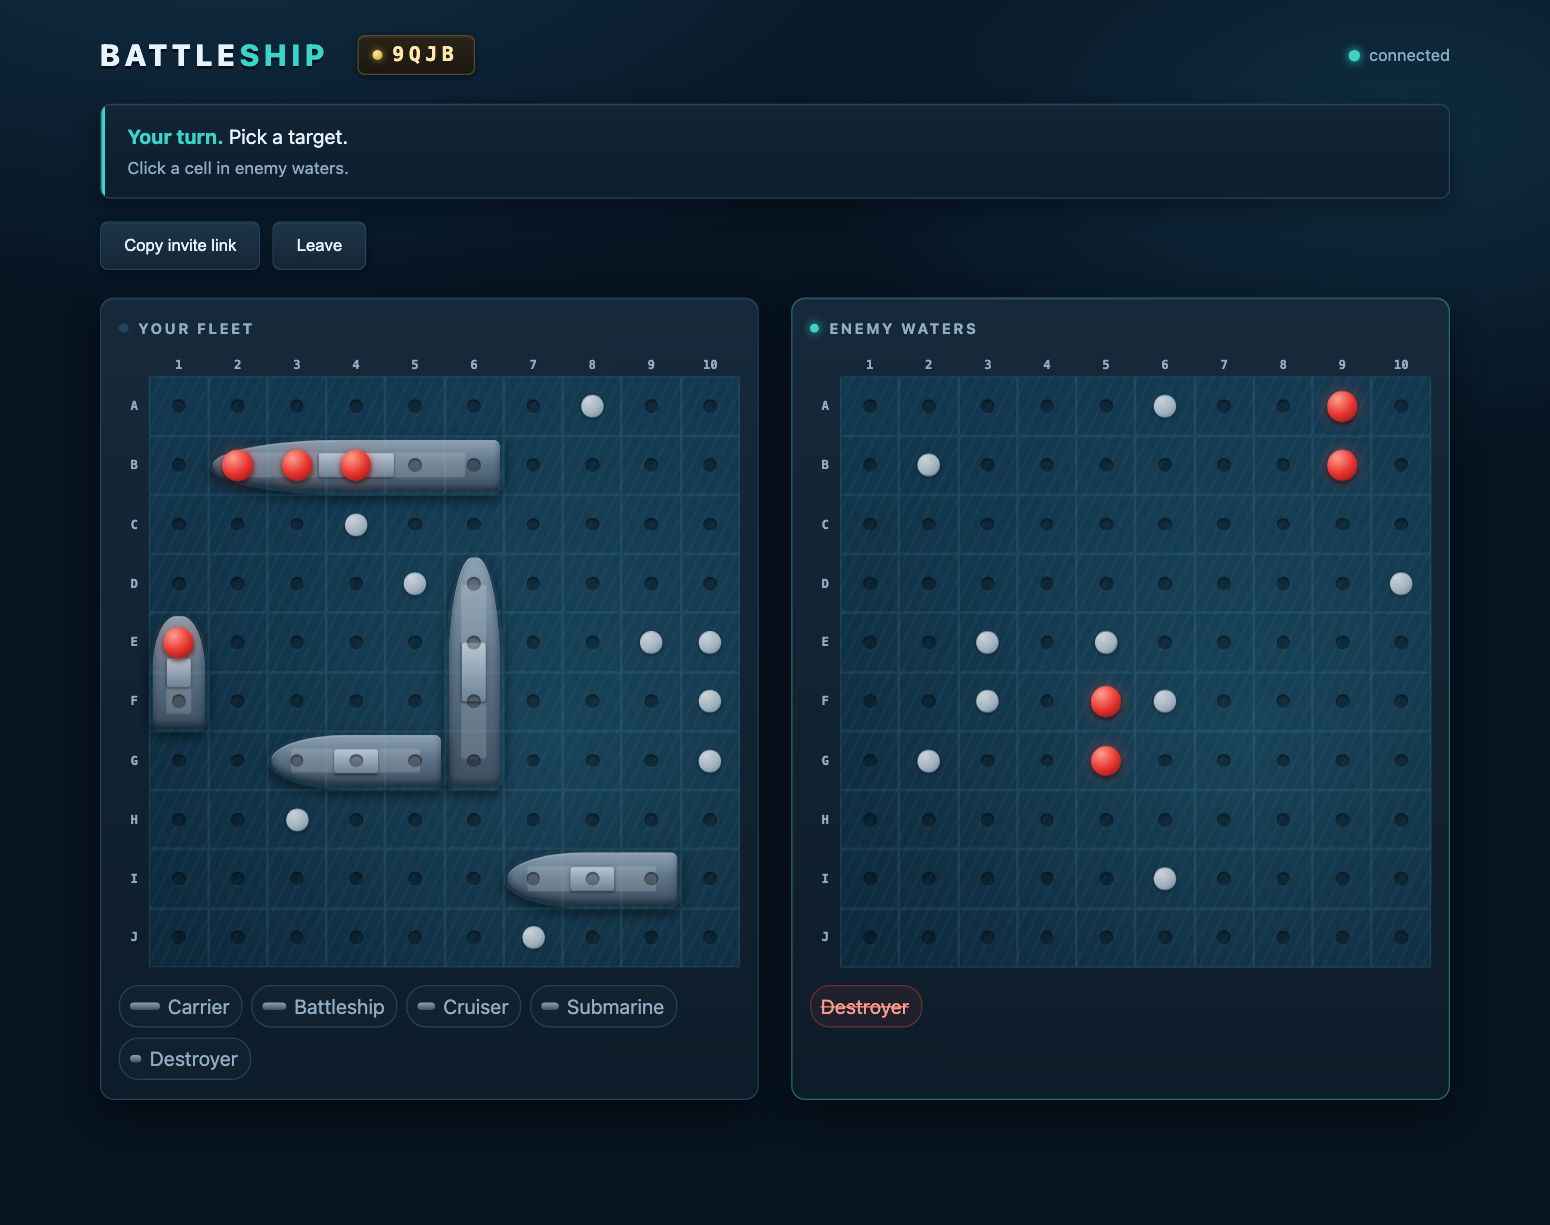
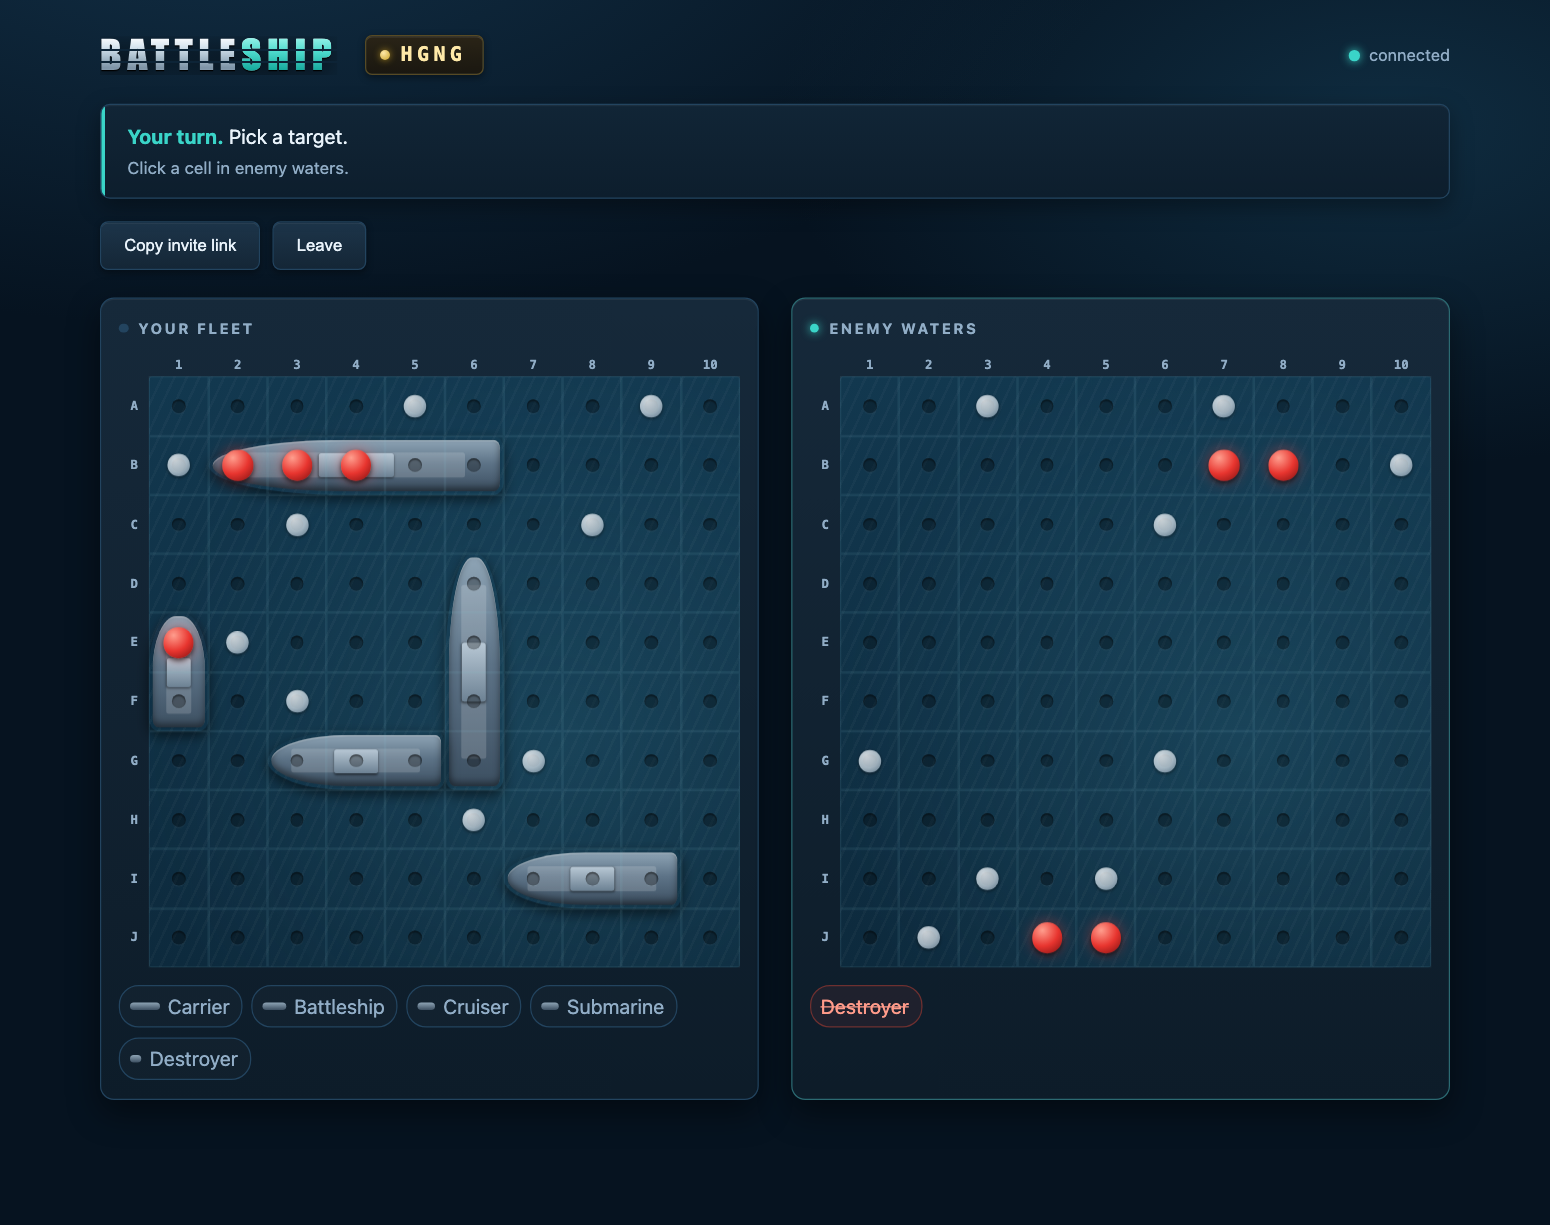
War-theme the wordmark, and stop the e2e room codes colliding
Title: BATTLESHIP is now stencilled hull lettering — heavy condensed caps in
a brushed-steel gradient with two mask-cut bridges across the letterforms, the
accent word in the same teal the rest of the UI uses. A @supports fallback
keeps it flat-coloured rather than invisible where background-clip: text is
unsupported. Nothing else in the header changed.

Tests: the e2e room code was E2E + three digits. Rooms are Durable Objects and
persist, so runs eventually landed on a finished room and the server answered
`full` — correctly. That read as three failures against production while the
same suite passed locally, where dev storage starts empty. Codes now carry
nine random characters, and six consecutive production runs are clean.

Screenshots regenerated with the new wordmark.

Verified: 21/21 unit, 13/13 e2e locally and six times against production,
29/29 browser checks, no console errors.

diff --git a/public/index.html b/public/index.html
@@ -43,12 +43,41 @@
 
   header { display: flex; flex-wrap: wrap; gap: .8rem 1.4rem; align-items: center; margin-bottom: 1.4rem; }
 
-  h1 {
-    font: 800 1.5rem/1 ui-sans-serif, system-ui, sans-serif;
-    letter-spacing: .16em; text-transform: uppercase; margin: 0;
-    text-shadow: 0 2px 0 rgba(0,0,0,.5);
+  /* Hull lettering: stencilled, painted on steel. The bridges across the
+     letterforms are a mask, so the page shows through them the way a real
+     stencil leaves gaps. */
+  .wordmark { margin: 0; display: flex; align-items: center; gap: .55rem; }
+
+  .stencil {
+    font: 400 1.95rem/1 Impact, Haettenschweiler, "Arial Narrow Bold", "Arial Narrow", sans-serif;
+    text-transform: uppercase;
+    letter-spacing: .15em;
+    color: transparent;
+    background: linear-gradient(180deg, #ffffff 0%, #d9e6f0 26%, #aabecd 54%, #7d93a6 82%, #9db1c2 100%);
+    -webkit-background-clip: text;
+    background-clip: text;
+    /* Two bridges, placed by percentage so they land inside the cap height
+       rather than clipping the baseline. */
+    -webkit-mask-image: linear-gradient(180deg,
+      #000 0 33%, transparent 33% 38%, #000 38% 63%, transparent 63% 68%, #000 68% 100%);
+    mask-image: linear-gradient(180deg,
+      #000 0 33%, transparent 33% 38%, #000 38% 63%, transparent 63% 68%, #000 68% 100%);
+    filter: drop-shadow(0 1px 0 rgba(0,0,0,.95)) drop-shadow(0 4px 9px rgba(0,0,0,.6));
   }
-  h1 span { color: var(--teal); }
+  .stencil i {
+    font-style: normal;
+    color: transparent;
+    background: linear-gradient(180deg, #b6fdf5 0%, #4fdcce 42%, #16a99d 82%, #3fc9bd 100%);
+    -webkit-background-clip: text;
+    background-clip: text;
+  }
+
+  /* Without clip-to-text the letters would be transparent, i.e. invisible.
+     Fall back to flat colour rather than no title at all. */
+  @supports not ((-webkit-background-clip: text) or (background-clip: text)) {
+    .stencil { background: none; color: var(--ink); -webkit-mask-image: none; mask-image: none; }
+    .stencil i { background: none; color: var(--teal); }
+  }
 
   .code-plate {
     display: flex; align-items: center; gap: .5rem;
@@ -392,7 +421,7 @@
 <body>
 <div class="wrap">
   <header>
-    <h1>Battle<span>ship</span></h1>
+    <h1 class="wordmark"><span class="stencil">Battle<i>ship</i></span></h1>
     <span id="codeBadge" class="code-plate hidden"></span>
     <span class="conn"><span id="dot" class="dot"></span><span id="connText">offline</span></span>
   </header>
